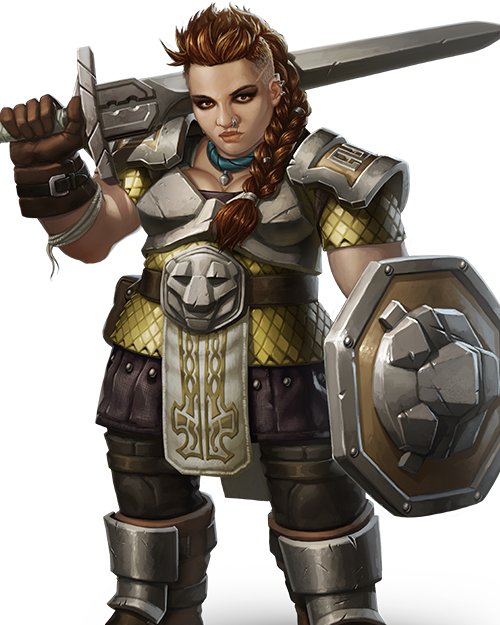
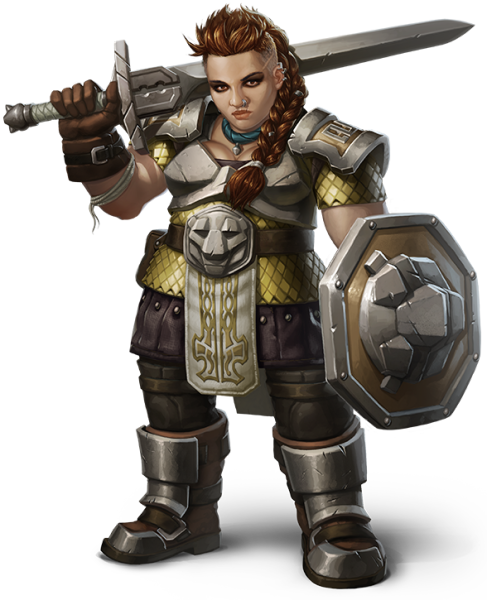
Massive UI overhaul; adjusted styling, background, pictures, format, and layout.

diff --git a/src/main/java/edu/bsu/cs222/dndcharactergenerator/View.java b/src/main/java/edu/bsu/cs222/dndcharactergenerator/View.java
@@ -10,11 +10,17 @@ import javafx.scene.control.Label;
 import javafx.scene.control.TextField;
 import javafx.scene.image.Image;
 import javafx.scene.image.ImageView;
+import javafx.scene.layout.Background;
+import javafx.scene.layout.HBox;
 import javafx.scene.layout.VBox;
+import javafx.scene.paint.Color;
 import javafx.stage.DirectoryChooser;
 import javafx.stage.Stage;
 import javafx.scene.control.*;
+import javafx.stage.StageStyle;
 
+import javax.swing.plaf.ColorUIResource;
+import java.awt.*;
 import java.io.File;
 import java.io.IOException;
 
@@ -31,6 +37,9 @@ public class View extends Application {
         //1st Name Scene
         VBox nameVbox = new VBox();
         nameVbox.setAlignment(Pos.CENTER);
+        nameVbox.setSpacing(20);
+        nameVbox.setBackground(Background.EMPTY);
+        Scene openAndNameScene = new Scene(nameVbox, 550, 850,Color.CRIMSON);
         Image fighterImage = new Image("/dwarfImage.png", true);
         ImageView fighterImageView = new ImageView();
         fighterImageView.setImage(fighterImage);
@@ -38,21 +47,24 @@ public class View extends Application {
                 " *Leaving this blank is fine, you can always change it later!");
         TextField characterName = new TextField();
         Button go = new Button("GO!");
-        Scene openAndNameScene = new Scene(nameVbox, 550, 850);
         nameVbox.getChildren().addAll(fighterImageView, enterName, characterName, go);
 
         //2nd Core Stats/Race Selection Scene
         VBox coreStatsVbox = new VBox();
         coreStatsVbox.setAlignment(Pos.CENTER);
         coreStatsVbox.setSpacing(10);
-        Scene coreAttributesScene = new Scene(coreStatsVbox, 550, 850);
+        coreStatsVbox.setBackground(Background.EMPTY);
+        Scene coreAttributesScene = new Scene(coreStatsVbox, 550, 850,Color.CRIMSON);
         Label raceSelection = new Label("Choose from one of the below races!");
         Label statGeneration = new Label("Fill out your rolled stats below.\n" +
                 "We have provided a dice roller that uses standard rules,\n" +
                 "Feel free to insert your own values, or take ours!");
+        Button diceRoller = new Button("Roll the Dice!");
         Button nextToCombatStyle = new Button("Next (Combat Style)");
         Button backToName = new Button("Back (Name Screen)");
-        Button diceRoller = new Button("Roll the Dice!");
+        HBox coreStatsButtons = new HBox(backToName, nextToCombatStyle);
+        coreStatsButtons.setAlignment(Pos.CENTER);
+        coreStatsButtons.setSpacing(25);
         Integer[] statNumbers = new Integer[]{3, 4, 5, 6, 7, 8, 9, 10, 11, 12, 13, 14, 15, 16, 17, 18, 19, 20, 21, 22};
         Label rolledStats = new Label("");
         Label strLabel = new Label("Strength");
@@ -75,17 +87,21 @@ public class View extends Application {
         chaBox.getItems().addAll(statNumbers);
         ComboBox<String> races = new ComboBox<>();
         races.getItems().addAll("Dragonborn", "Dwarf", "Elf", "Gnome", "Half-Elf", "Halfling", "Half-Orc", "Human", "Tiefling");
-        coreStatsVbox.getChildren().addAll(raceSelection, races, statGeneration, diceRoller, rolledStats, strLabel, strBox, dexLabel, dexBox, conLabel, conBox, intLabel, intBox, wisLabel, wisBox, chaLabel, chaBox, nextToCombatStyle, backToName);
+        coreStatsVbox.getChildren().addAll(raceSelection, races, statGeneration, diceRoller, rolledStats, strLabel, strBox, dexLabel, dexBox, conLabel, conBox, intLabel, intBox, wisLabel, wisBox, chaLabel, chaBox, coreStatsButtons);
 
         //3rd Scene Combat Style
         VBox combatStyle = new VBox();
         combatStyle.setAlignment(Pos.CENTER);
         combatStyle.setSpacing(15);
-        Scene combatStyleScene = new Scene(combatStyle, 550, 850);
+        combatStyle.setBackground(Background.EMPTY);
+        Scene combatStyleScene = new Scene(combatStyle, 550, 850,Color.CRIMSON);
         Label combatStyleLabel = new Label("Select a combat style!");
         Label styleDescription = new Label("");
         Button nextToRacial = new Button("Next (Racial)");
         Button backToCore = new Button("Back (Core and Race Selection)");
+        HBox combatStyleButtons = new HBox(backToCore, nextToRacial);
+        combatStyleButtons.setAlignment(Pos.CENTER);
+        combatStyleButtons.setSpacing(25);
 
         ToggleGroup styleGroup = new ToggleGroup();
 
@@ -145,7 +161,7 @@ public class View extends Application {
                 }
             }
         });
-        combatStyle.getChildren().addAll(combatStyleLabel, archery, defense, dueling, greatWeaponFighting, protection, twoWeaponFighting, styleDescription, backToCore, nextToRacial);
+        combatStyle.getChildren().addAll(combatStyleLabel, archery, defense, dueling, greatWeaponFighting, protection, twoWeaponFighting, styleDescription, combatStyleButtons);
 
         //Button nextToSkillsBackground = new Button("Next (Skills and Background"); For iteration 2
 
@@ -160,17 +176,24 @@ public class View extends Application {
         //5th (Racial Scene)
         VBox racialVbox = new VBox();
         racialVbox.setAlignment(Pos.CENTER);
-        Scene racialScene = new Scene(racialVbox, 550, 850);
+        racialVbox.setSpacing(10);
+        racialVbox.setBackground(Background.EMPTY);
+        Scene racialScene = new Scene(racialVbox, 550, 850,Color.CRIMSON);
         Label racialAttributesHeader = new Label("Specific Racial Options");
         //Button backToSkillsBackground = new Button("Back (to Skills and Background)");  Will be added back in iteration 2.
         Button backToCombatStyle = new Button("Back (to Core Attributes)");//Will go away iteration 2.
         Label makeSure = new Label("Make sure you have selected all desired fields, options, and/or boxes. \nIf you left anything blank, related fields in the pdf will be affected!\n For example, failing to enter a Constitution score will zero values for: \n-Fortitude save\n-Constitution Modifier\n-Hit points\nNo one wants a Constition score of 0,1, or 2!");
         Button finish = new Button("Finish");
+        HBox racialButtons = new HBox(backToCombatStyle, finish);
+        racialButtons.setAlignment(Pos.BOTTOM_CENTER);
+        racialButtons.setSpacing(25);
 
         //6th Save Scene
         VBox saveLocationVbox = new VBox();
         saveLocationVbox.setAlignment(Pos.CENTER);
-        Scene saveScene = new Scene(saveLocationVbox, 550, 850);
+        saveLocationVbox.setSpacing(40);
+        saveLocationVbox.setBackground(Background.EMPTY);
+        Scene saveScene = new Scene(saveLocationVbox, 550, 850,Color.CRIMSON);
         Label saveLabel = new Label("Please select a path to save your PDF to.");
         DirectoryChooser saveLocation = new DirectoryChooser();
         saveLocation.setInitialDirectory(new File("src"));
@@ -200,13 +223,19 @@ public class View extends Application {
             Image gnomeImage = new Image("/gnomeImage.png");
             Image halfElfImage = new Image("/halfElfImage.png");
             Image halfOrcImage = new Image("/halfOrcImage.png");
+            Image dragonbornImage = new Image("/dragonbornImage.png");
+            Image elfImage = new Image("/elfImage.png");
+            Image humanImage = new Image("/humanImage.png");
+            Image tieflingImage = new Image("/tieflingImage.png");
+            Image halflingImage = new Image("/halflingImage.png");
             racialVbox.getChildren().addAll(racialAttributesHeader);
-            if (character.getRace()==null) {
+            if (character.getRace() == null) {
                 character.setRace("zeroman");
                 Label noRaceSelected = new Label("NO RACE SELECTED!  YOU MIGHT WANNA FIX THIS!");
                 racialVbox.getChildren().addAll(noRaceSelected);
             }
             if (character.getRace().equals(Race.DRAGONBORN)) {
+                racialImageView.setImage(dragonbornImage);
                 ComboBox<String> breathWeaponSelection = new ComboBox<>();
                 breathWeaponSelection.getItems().addAll("Black Dragon: Acid", "Blue Dragon: Lightning", "Brass Dragon: Fire", "Bronze Dragon: Lightning", "Copper Dragon: Acid",
                         "Gold Dragon: Fire", "Green Dragon: Poison", "Red Dragon: Fire", "Silver Dragon: Cold", "White Dragon: Cold");
@@ -221,6 +250,7 @@ public class View extends Application {
                 dwarfSubRace.setOnAction(actionEvent -> character.setRacialAttribute(stringToRacialAttribute(dwarfSubRace.getValue())));
             }
             if (character.getRace().equals(Race.ELF)) {
+                racialImageView.setImage(elfImage);
                 ComboBox<String> elfSubRace = new ComboBox<>();
                 elfSubRace.getItems().addAll("High Elf: +1 INT", "Wood Elf: +1 WIS", "Drow: +1 CHA");
                 racialVbox.getChildren().addAll(elfSubRace);
@@ -237,10 +267,13 @@ public class View extends Application {
                 racialImageView.setImage(halfElfImage);
                 Label halfElfRacialAbilityBonus = new Label("Choose which two ability scores to increase by 1");
                 String[] statsForBoxes = new String[]{"STR", "DEX", "CON", "INT", "WIS", "CHA"};
+                HBox halfElfHbox = new HBox();
+                halfElfHbox.setAlignment(Pos.CENTER);
                 final int maxBoxCount = 2;
                 final CheckBox[] halfElfCheckboxes = new CheckBox[statsForBoxes.length];
                 ChangeListener<Boolean> listener = new ChangeListener<Boolean>() {
                     private int listenedCount = 0;
+
                     public void changed(ObservableValue<? extends Boolean> observable, Boolean oldValue, Boolean newValue) {
                         if (newValue) {
                             listenedCount++;
@@ -251,8 +284,7 @@ public class View extends Application {
                                     }
                                 }
                             }
-                        }
-                        else {
+                        } else {
                             if (listenedCount == maxBoxCount) {
                                 for (CheckBox selBox : halfElfCheckboxes) {
                                     selBox.setDisable(false);
@@ -262,15 +294,16 @@ public class View extends Application {
                         }
                     }
                 };
-                racialVbox.getChildren().addAll(halfElfRacialAbilityBonus);
                 for (int i = 0; i < statsForBoxes.length; i++) {
                     CheckBox selBox = new CheckBox(statsForBoxes[i]);
                     selBox.selectedProperty().addListener(listener);
-                    racialVbox.getChildren().add(selBox);
+                    halfElfHbox.getChildren().add(selBox);
                     halfElfCheckboxes[i] = selBox;
                 }
+                racialVbox.getChildren().addAll(halfElfRacialAbilityBonus, halfElfHbox);
             }
             if (character.getRace().equals(Race.HALFLING)) {
+                racialImageView.setImage(halflingImage);
                 ComboBox<String> halflingSubRace = new ComboBox<>();
                 halflingSubRace.getItems().addAll("Lightfoot: +1 CHA", "Stout: +1 CON");
                 racialVbox.getChildren().addAll(halflingSubRace);
@@ -282,14 +315,16 @@ public class View extends Application {
                 racialVbox.getChildren().addAll(noSelectionForOrc);
             }
             if (character.getRace().equals(Race.HUMAN)) {
+                racialImageView.setImage(humanImage);
                 Label noSelectionForHuman = new Label("You are a human.  Congratulations.");
                 racialVbox.getChildren().addAll(noSelectionForHuman);
             }
             if (character.getRace().equals(Race.TIEFLING)) {
+                racialImageView.setImage(tieflingImage);
                 Label noSelectionForTiefling = new Label("You are a tiefling; try not to burn yourself or others!");
                 racialVbox.getChildren().addAll(noSelectionForTiefling);
             }
-            racialVbox.getChildren().addAll(racialImageView, makeSure, backToCombatStyle, finish);
+            racialVbox.getChildren().addAll(racialImageView, makeSure, racialButtons);
             stage.setScene(racialScene);
         });
 
@@ -339,7 +374,7 @@ public class View extends Application {
             PdfGenerator generator = new PdfGenerator.Builder().setCharacter(character).build();
             try {
                 generator.writeNewCharacterSheet(saveFile);
-            } catch(IOException e) {
+            } catch (IOException e) {
                 e.printStackTrace();
             }
         });
